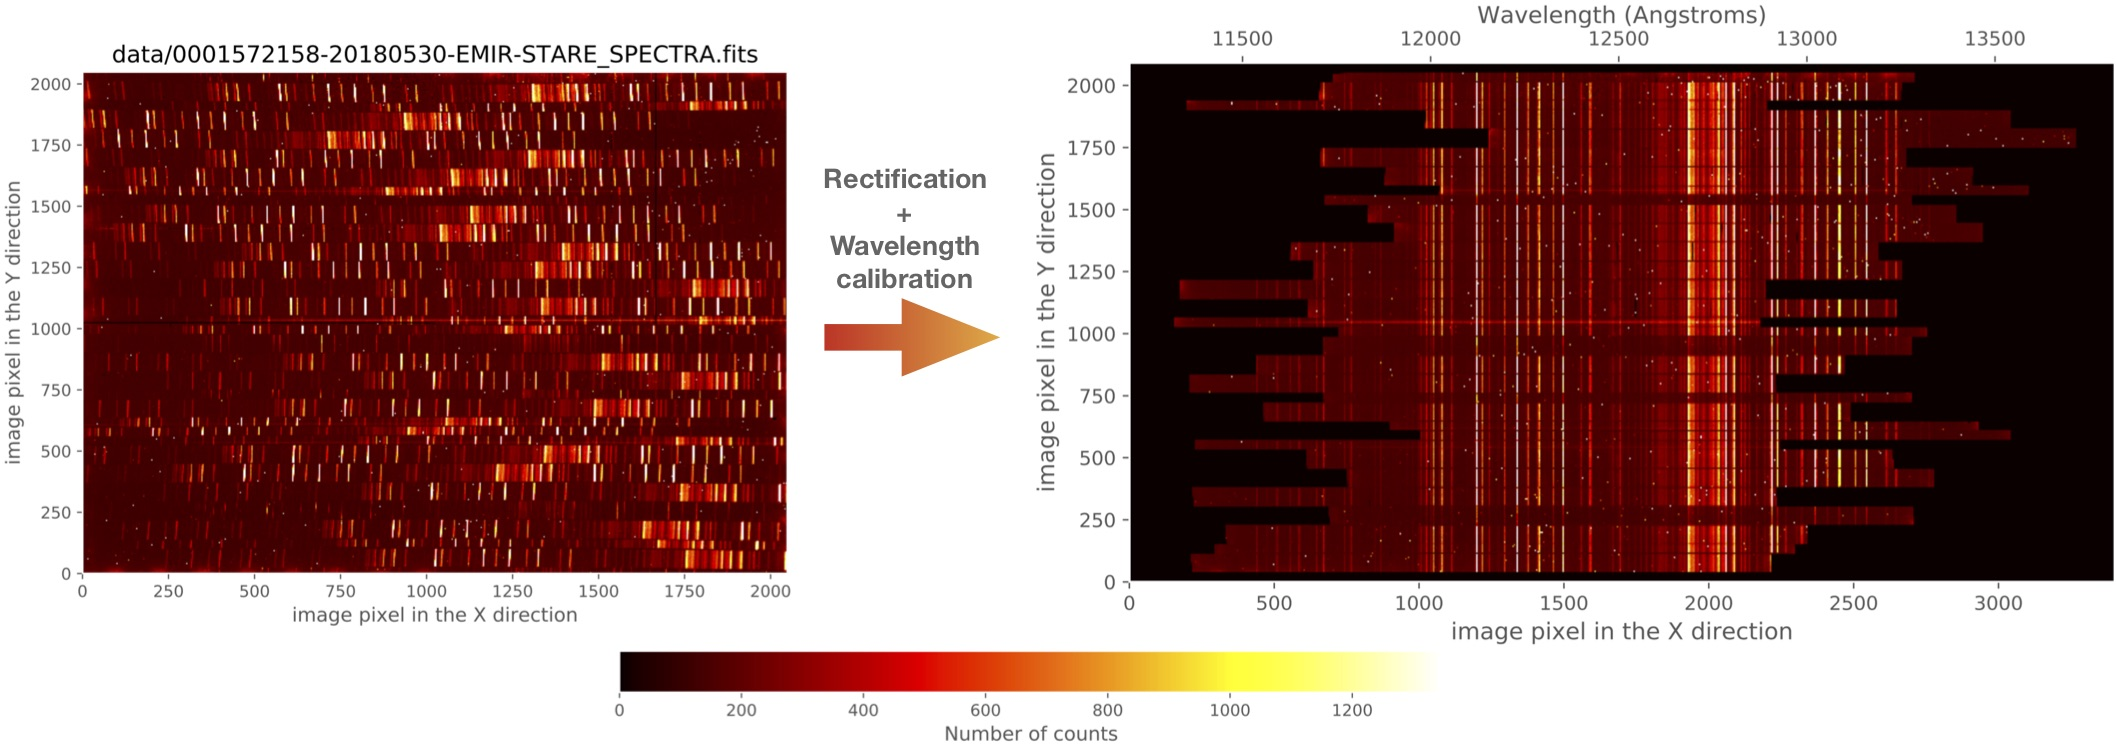
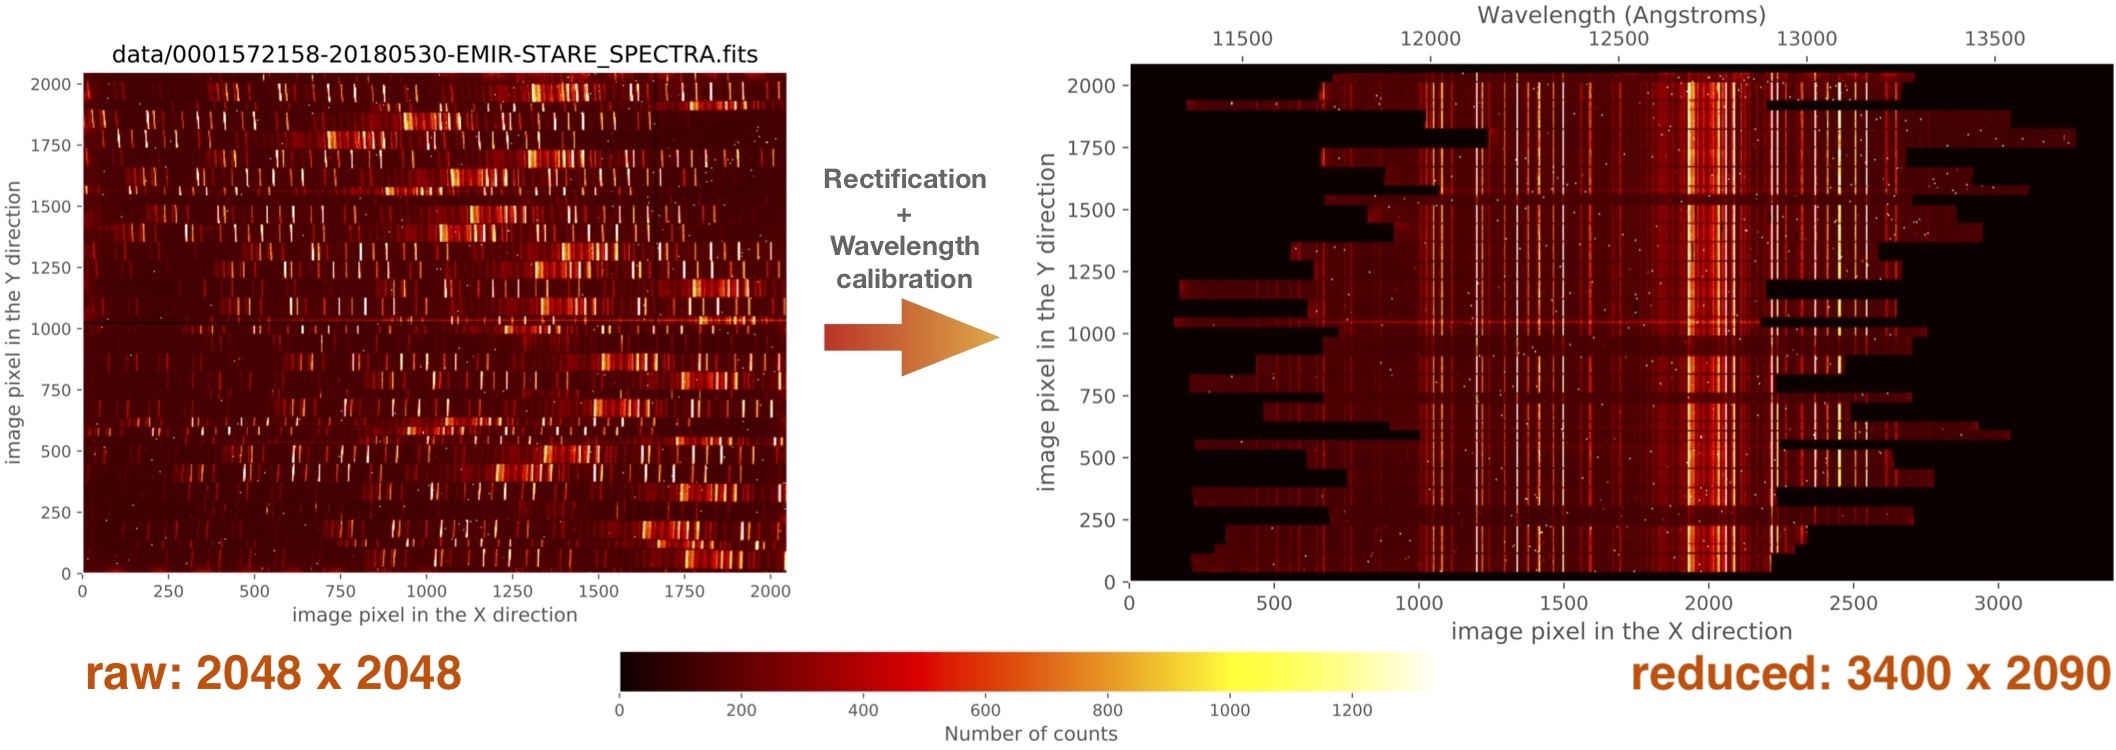
Additional information for MOS tutorial

Changed region(s): [[0.7486, 0.8587, 0.9981, 0.92], [0.0312, 0.8587, 0.2183, 0.92]]

diff --git a/doc/tutorial_mos/simple_example.rst b/doc/tutorial_mos/simple_example.rst
@@ -16,23 +16,26 @@ Simple example: arc exposure
 The rectification and wavelength calibration of any EMIR spectroscopic image
 can be obtained with two levels of quality:
 
-- **Preliminary calibration**, without auxiliary calibration images, computed 
-  from the empirical calibration derived by the instrument team. This is the
-  on-line reduction perfomed at the GTC while gathering the images. Note that
-  the empirical calibrations were computed using a large set of initial
-  calibration images, and *it is not expected that the absolute wavelength
-  calibration to be correct within a few pixels nor the relative wavelength
-  calibration between slitlets to agree within one pixel*. For that reason
-  this rectified and wavelength calibrated image has been defined as a
-  preliminary version.  Anyhow, it is a good starting point in order to have a
-  look to the data.
+- **Preliminary (empirical) calibration**, without auxiliary calibration
+  images, computed from the empirical calibration derived by the instrument
+  team. This is the on-line reduction perfomed at the GTC while gathering the
+  images. Note that the empirical calibrations were computed using a large set
+  of initial calibration (continuum and arc) images, and *it is not expected
+  that the absolute wavelength calibration to be correct within a few pixels
+  nor the relative wavelength calibration between slitlets to agree within one
+  pixel*. For that reason, this rectified and wavelength calibrated image has
+  been defined as a preliminary version. In addition, *the boundaries between
+  slitlets can also exhibit small deviations (a few pixels) with respect to the
+  empirical calibration*. Anyhow, this empirical calibration constitutes a good
+  starting point in order to have a look to the data.
 
 - **Refined calibration**, which requires either auxilary arc exposures or a
-  more detailed reduction of scientific images with good signal of the airglow
+  more detailed reduction of scientific images with good signal on the airglow
   emission (OH emission lines). In this case, the preliminary calibration is
   refined *in order to guarantee that both, the absolute wavelength calibration
   and the relative wavelength calibration between slitlets do agree within a
-  fraction of a pixel*.
+  fraction of a pixel*. In addition, the boundaries between the slitlets can
+  also be shifted in order to match the real data.
 
 
 Preliminary rectification and wavelength calibration

diff --git a/doc/tutorial_mos/index.rst b/doc/tutorial_mos/index.rst
@@ -5,18 +5,18 @@
 PyEmir MOS Tutorial
 ###################
 
-This tutorial provides a short introduction to the rectification and wavelength
-calibration of EMIR spectroscopic images using PyEmir. In any case, it is
-expected to be an easy introduction to the use of numina and PyEmir. 
-
-For detailed documentation concerning the installation of PyEmir, see the
-:ref:`user`.
+This tutorial provides an easy introduction to the use of Numina and PyEmir,
+focusing on the rectification and wavelength
+calibration of EMIR spectroscopic images.
 
 .. warning::
 
    This "MOS Tutorial" is still a work in progress; several aspects of PyEmir
-   are not yet covered sufficient detail. More detailed instructions will be
+   are not yet covered with sufficient detail. More instructions will be
    provided here in the future.
+
+For detailed documentation concerning the installation of PyEmir, see the
+:ref:`user`.
 
 .. image:: pyemir_mos_scheme.png
    :width: 800
@@ -29,6 +29,29 @@ favourite software tools to proceed with the spectra extraction and analysis.
 .. image:: pyemir_mos_example.jpg
    :width: 800
    :alt: PyEmir MOS Scheme
+
+The rectification and wavelength calibration of the original 2048x2048-size raw
+images generates reduced 3400x2090-size images. The spatial and spectral
+sampling of the raw images are preserved, as much as possible (to minimise
+resampling problems) in the reduced images, and the spectral direction axis is
+enlarged to acommodate the varying wavelength ranges covered by the slitlet
+spectra depending on the location of the slitlets on the plane defined by the
+CSU (Cold Slit Unit).
+
+At present, PyEmir is able to work with raw images obtained with the following
+spectroscopic configurations:
+
+=====   ======
+Grism   Filter
+=====   ======
+J       J
+H       H
+K       Ksp
+LR      YJ
+LR      HK
+=====   ======
+
+**Tutorial index:**
 
 .. toctree::
    :maxdepth: 2
